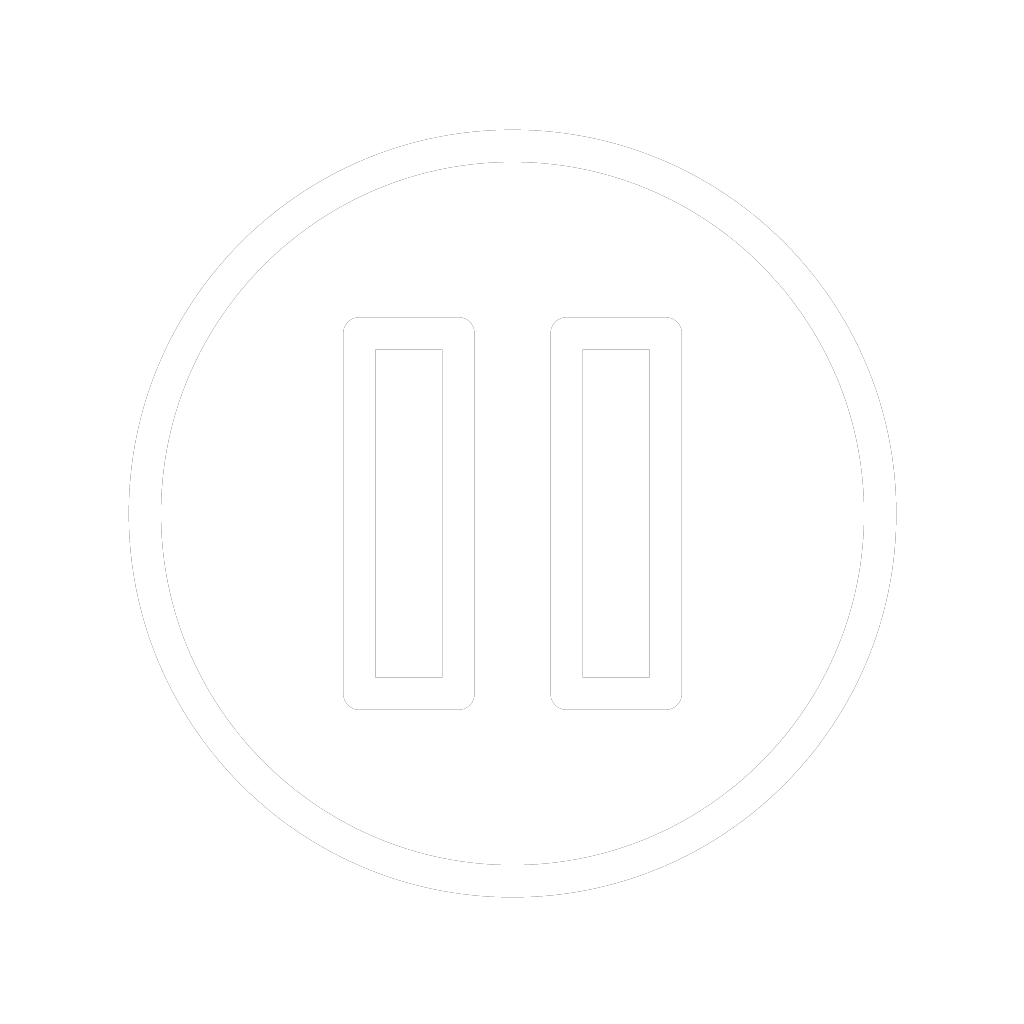
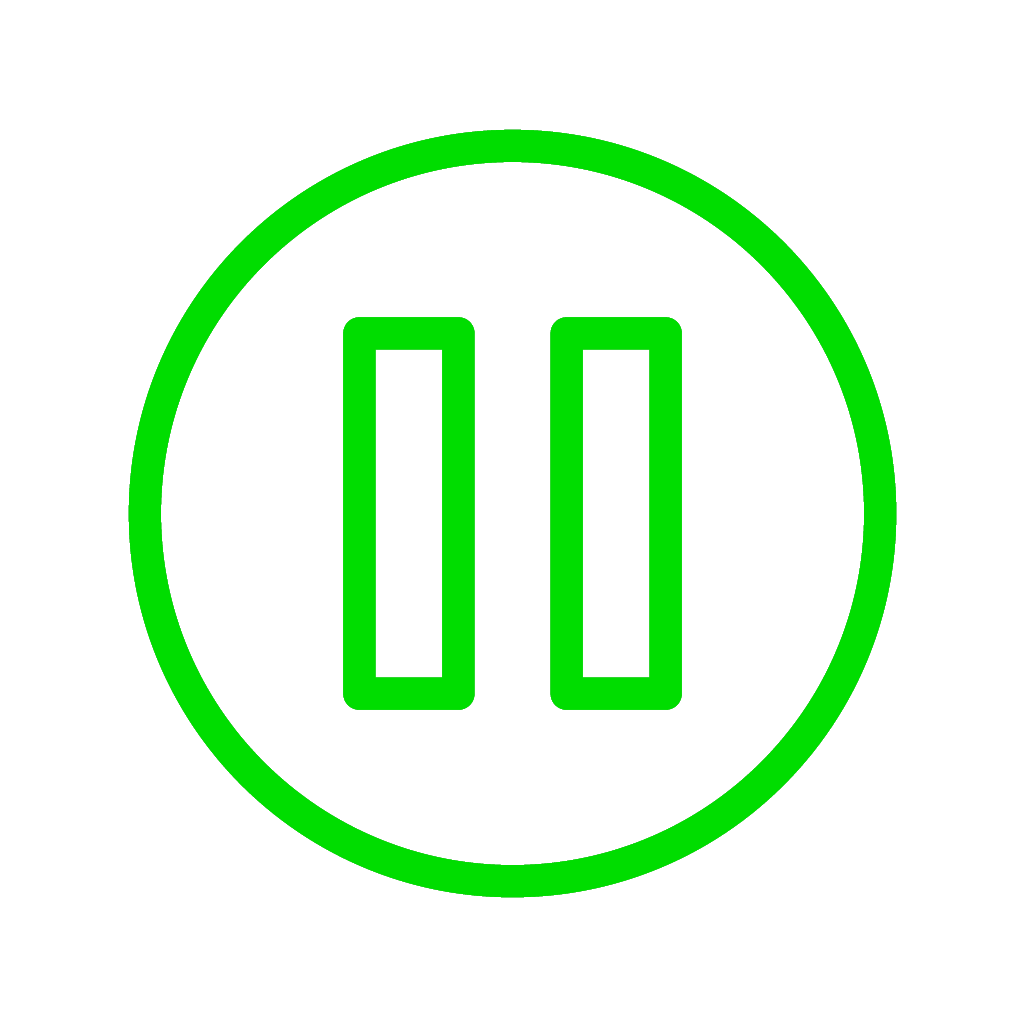
presentacion

Changed region(s): [[0.125, 0.125, 0.875, 0.875], [0.5312, 0.3125, 0.6875, 0.7188], [0.3125, 0.3125, 0.4688, 0.7188]]

diff --git a/index.html b/index.html
@@ -1,78 +1,100 @@
 <!DOCTYPE html>
 <html lang="es">
+  <head>
+    <meta charset="UTF-8" />
+    <meta name="viewport" content="width=device-width, initial-scale=1.0" />
+    <title>UFO Cows Abduction</title>
+    <link rel="stylesheet" href="./static/css/styles.css" />
+  </head>
 
-<head>
-  <meta charset="UTF-8" />
-  <meta name="viewport" content="width=device-width, initial-scale=1.0" />
-  <title>UFO Cows Abduction</title>
-  <link rel="stylesheet" href="./static/css/styles.css" />
-</head>
-
-<body>
-  <section class="intro">
-    <h1 class="titulo">UFO<br />CAMPERS<br />ABDUCTION</h1>
-    <button class="btn-start">
-      <img id="playBtn" src="/static/img/alien2.png" class="img-start" alt="alien-start" />
-    </button>
-    <button><img id="pauseBtn" src="" class="img-pause" 
-      alt="alien-pause"></button>
-  </section>
-  <section id="inicio" class="game">
-    <section class="game-section-one">
-      <div class="game-section-input">
-        <p>Ingresar nombres</p>
-        <div class="input-section">
-          <input id="nombre" class="input-nombre" type="text" placeholder="agregar nombre"/>
-          <button onclick="agregarNombre()" class="btn-input">
-            <img class="check-btn" src="/static/img/check.svg" alt="check" />
-          </button>
-        </div>
-      </div>
+  <body>
+    <section class="intro">
+      <h1 class="titulo">UFO<br />CAMPERS<br />ABDUCTION</h1>
+      <button class="btn-audio">
+        <img
+          id="playBtn"
+          src="/static/img/alien2.png"
+          class="img-start"
+          alt="alien-start"
+        />
+      </button>
+      <button class="btn-pausa">
+        <img
+          id="pauseBtn"
+          src="/static/img/pause.png"
+          class="img-pause"
+          alt="alien-pause"
+        />
+      </button>
     </section>
-    <section class="section-animation">
-      <img id="ovniId" class="ovni" src="/static/img/ovni.png" alt="ovni" />
-      <img
-        id="resplandorId"
-        class="resplandor"
-        src="/static/img/resplandor.png"
-        alt="resplandor"
-      />
-      <img
-        id="personId"
-        class="person"
-        src="/static/img/person.png"
-        alt="person"
-      />
-      <img id="starId" class="star" src="/static/img/star.svg" alt="star" />
-    </section>
-    <div class="id-select" id="nombreSeleccionado"></div>
-    <section class="game-section-two">
-      <div class="list-name-section">
-        <div class="box-gradient-list">
-          <div class="cont-list-name">
-            <ul id="listaNombres" class="user"></ul>
+    <section id="inicio" class="game">
+      <section class="game-section-one">
+        <div class="game-section-input">
+          <p>Ingresar nombres</p>
+          <div class="input-section">
+            <input
+              id="nombre"
+              class="input-nombre"
+              type="text"
+              placeholder="agregar nombre"
+            />
+            <button onclick="agregarNombre()" class="btn-input">
+              <img class="check-btn" src="/static/img/check.svg" alt="check" />
+            </button>
           </div>
         </div>
-      </div>
-      <div class="btn-name-section">
-        <div class="btn-cont">
-          <button  id="activarAnimaciones" class="btn-start">
-            <img src="/static/img/aliens.svg" class="img-start" alt="alien-start" />
-          </button>
-          <button onclick="borrarNombres()" class="btn-rest">
-            <img src="/static/img/restart.svg" class="restart" alt="alien-start" />
-          </button>
+      </section>
+      <section class="section-animation">
+        <img id="ovniId" class="ovni" src="/static/img/ovni.png" alt="ovni" />
+        <img
+          id="resplandorId"
+          class="resplandor"
+          src="/static/img/resplandor.png"
+          alt="resplandor"
+        />
+        <img
+          id="personId"
+          class="person"
+          src="/static/img/person.png"
+          alt="person"
+        />
+        <img id="starId" class="star" src="/static/img/star.svg" alt="star" />
+        <div class="id-select" id="nombreSeleccionado"></div>
+      </section>
+      <section class="game-section-two">
+        <div class="list-name-section">
+          <div class="box-gradient-list">
+            <div class="cont-list-name">
+              <ul id="listaNombres" class="user"></ul>
+            </div>
+          </div>
         </div>
-      </div>
-      <img
-        class="fondo-two"
-        src="/static/img/portada-banner-2.png"
-        alt="backround-two"
-      />
+        <div class="btn-name-section">
+          <div class="btn-cont">
+            <button id="activarAnimaciones" class="btn-start">
+              <img
+                src="/static/img/aliens.svg"
+                class="img-start"
+                alt="alien-start"
+              />
+            </button>
+            <button onclick="borrarNombres()" class="btn-rest">
+              <img
+                src="/static/img/restart.svg"
+                class="restart"
+                alt="alien-start"
+              />
+            </button>
+          </div>
+        </div>
+        <img
+          class="fondo-two"
+          src="/static/img/portada-banner-2.png"
+          alt="backround-two"
+        />
+      </section>
     </section>
-  </section>
-  <img class="fondo" src="/static/img/portada-banner.jpg" alt="backround" />
-  <script src="script.js"></script>
-</body>
-
+    <img class="fondo" src="/static/img/portada-banner.jpg" alt="backround" />
+    <script src="script.js"></script>
+  </body>
 </html>

diff --git a/static/css/styles.css b/static/css/styles.css
@@ -42,13 +42,34 @@ body{
     z-index: 100;
 }
 
-.intro a {
+
+.btn-audio {
     width: 100px;
     height: 100px;
     border-radius: 50%;
     background-color: rgba(7, 246, 7, 0.303);
     border: 2px solid rgb(7, 246, 7);
-    margin-top: 30px;
+    margin-top: 50px;
+    cursor: pointer;
+}
+
+.btn-audio:hover{
+    background-color: rgba(7, 246, 7, 0.425);
+    
+    .img-start{
+        transform: scale(1.1);
+    }
+}
+
+.btn-pausa{
+    background-color:transparent;
+    border: none;
+    cursor: pointer;
+    margin-top: 10px;
+}
+
+.img-pause{
+    width: 50px;
 }
 
 .game{
@@ -102,7 +123,7 @@ body{
     width: 70%;
     height: 50px;
     border-radius: 50px;
-    background-color: #00bafd5e;
+    background-color: #00bafd44;
     border: 2px solid #00B9FD;
 }
 
@@ -118,7 +139,13 @@ body{
     border-radius: 50%;
     background-color: rgba(0, 167, 0, 0.418);
     border: 3px solid rgb(0, 167, 0);
+    cursor: pointer;
 }
+
+.btn-input:hover{
+    background-color: rgba(0, 199, 0, 0.664);
+}
+
 
 .check-btn{
     width: 25px;
@@ -153,7 +180,7 @@ body{
 }
 
 .box-gradient-list{
-    width: 70%;
+    width: 90%;
     height: 70%;
     background-color: rgba(1, 107, 206, 0.377);
     display: flex;
@@ -236,9 +263,10 @@ li p {
 
 .titulo{
     font-family:alien;
-    color: rgba(11, 228, 11, 0.719);
-    font-size: 4rem;
+    color: rgb(11, 228, 11);
+    font-size: 5rem;
     text-align: center;
+    line-height: 1;
 }
 
 .btn-cont{
@@ -260,7 +288,7 @@ li p {
 }
 
 .img-start{
-    width: 45px;
+    width: 40px;
 }
 
 .btn-rest{
@@ -292,6 +320,7 @@ li p {
     position: absolute;
     width: 600px;
     height: 70%;
+    max-height: 600px;
     z-index: 999;
     display: flex;
     align-items: center;
@@ -307,10 +336,10 @@ li p {
 }
 
 .animar.star{
-    width:12px;
+    width:20px;
     position: absolute;
-    right: 20px;
-    top: 40px;
+    right: 0px;
+    top: 50px;
     opacity: 0;
     animation: star 1s;
     animation-delay: 9s;
@@ -467,13 +496,18 @@ li p {
 }
 
 .animar.id-select{
-    font-size:2.5rem;
+    font-size:2.8rem;
     z-index: 10000;
     font-family: alien;
-    color: white;
+    color: rgb(47, 255, 47);
     opacity: 0;
-    animation: idselect 4s;
-    animation-delay: 8s;
+    animation: idselect 5s;
+    animation-delay: 9s;
+    background: linear-gradient(to left, rgba(0, 245, 0, 0), rgba(0, 245, 0, 0.336), rgba(0, 245, 0, 0));
+    padding: 10px 25px;
+    border-radius:15px;
+    letter-spacing: -2px;
+    margin-top:80px;
 }
 
 
@@ -505,10 +539,13 @@ input{
 input[type=text]{
     text-align: center;
 }
-/*estilos lista*/
+
+
+
+
+
 
 
     
-
 
 

diff --git a/script.js b/script.js
@@ -56,7 +56,7 @@ function seleccionarAleatorio() {
     borrarNombre(randomIndex);
     // Muestra el nombre seleccionado en el div 'nombreSeleccionado'
     const nombreSeleccionadoDiv = document.getElementById("nombreSeleccionado");
-    nombreSeleccionadoDiv.textContent = `Victima:${selectedName}`;
+    nombreSeleccionadoDiv.textContent = `Victima: ${selectedName}`;
     
   }
 }
